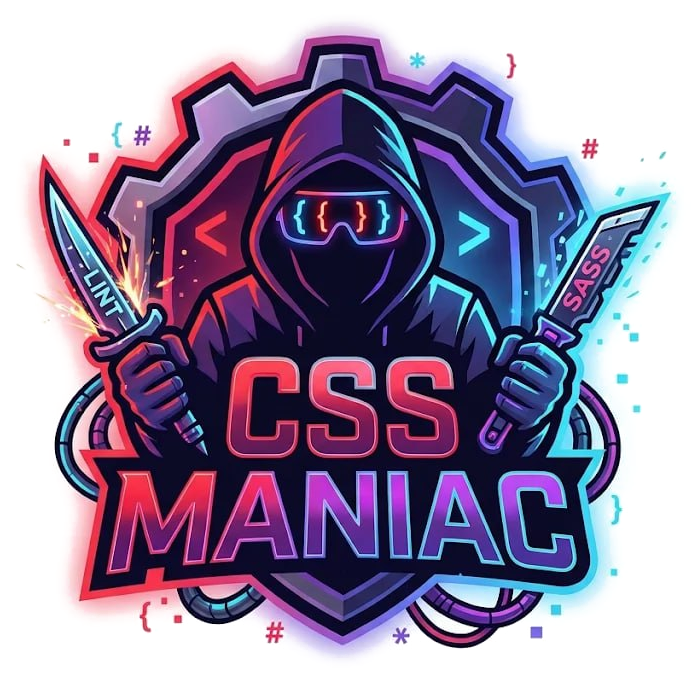
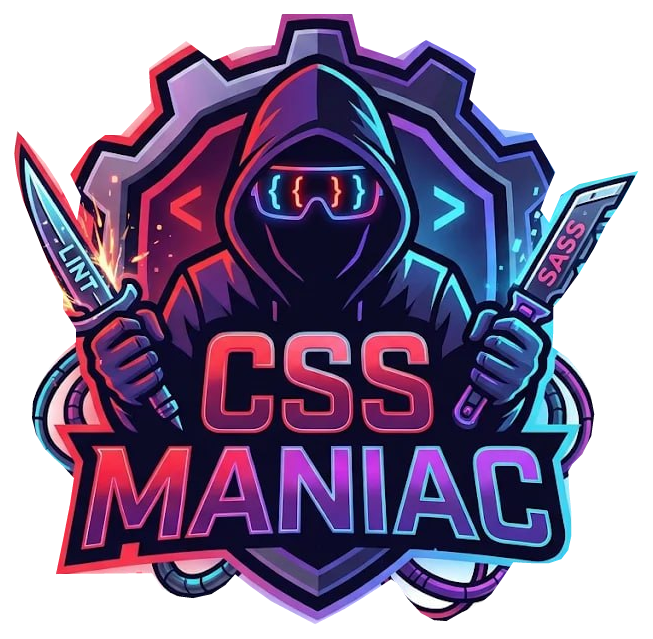
docs: add white die-cut sticker (revertible)
Trace the cohesive emblem from the supplied original, add a clean white backing and render both README logos at 360px.

Verified: git diff --cached --check and staged snapshot check_css_sticker.py (core RGB, border, alpha, ROI coverage and README embeds).

Task: t_60a2ccee

diff --git a/docs/assets/ASSETS.md b/docs/assets/ASSETS.md
@@ -1,3 +1,3 @@
 # Asset provenance
 
-- `own_css-maniac-original.png` — cropped from the original artwork supplied by the user for this project, with the exterior background made transparent and softly feathered. The original painting, lettering, knives, and arrangement are preserved. The original artwork's generator and license are not established. The supplied source image is not included in this repository.
+- `own_css-maniac-original.png` — adapted from the original artwork supplied by the user for this project. A hand-traced contour excludes detached symbols and exterior glow; the original artwork inside the contour is retained, with a solid white die-cut border and transparent exterior. The original artwork's generator and license are not established. The supplied source image is not included in this repository.

diff --git a/README.md b/README.md
@@ -1,4 +1,4 @@
-<h1 align="center"><img src="docs/assets/own_css-maniac-original.png" alt="CSS Maniac" height="160"></h1>
+<h1 align="center"><img src="docs/assets/own_css-maniac-original.png" alt="CSS Maniac" height="360"></h1>
 
 English · [Русский](README.ru.md)
 

diff --git a/README.ru.md b/README.ru.md
@@ -1,4 +1,4 @@
-<h1 align="center"><img src="docs/assets/own_css-maniac-original.png" alt="CSS Maniac" height="160"></h1>
+<h1 align="center"><img src="docs/assets/own_css-maniac-original.png" alt="CSS Maniac" height="360"></h1>
 
 [English](README.md) · Русский
 
